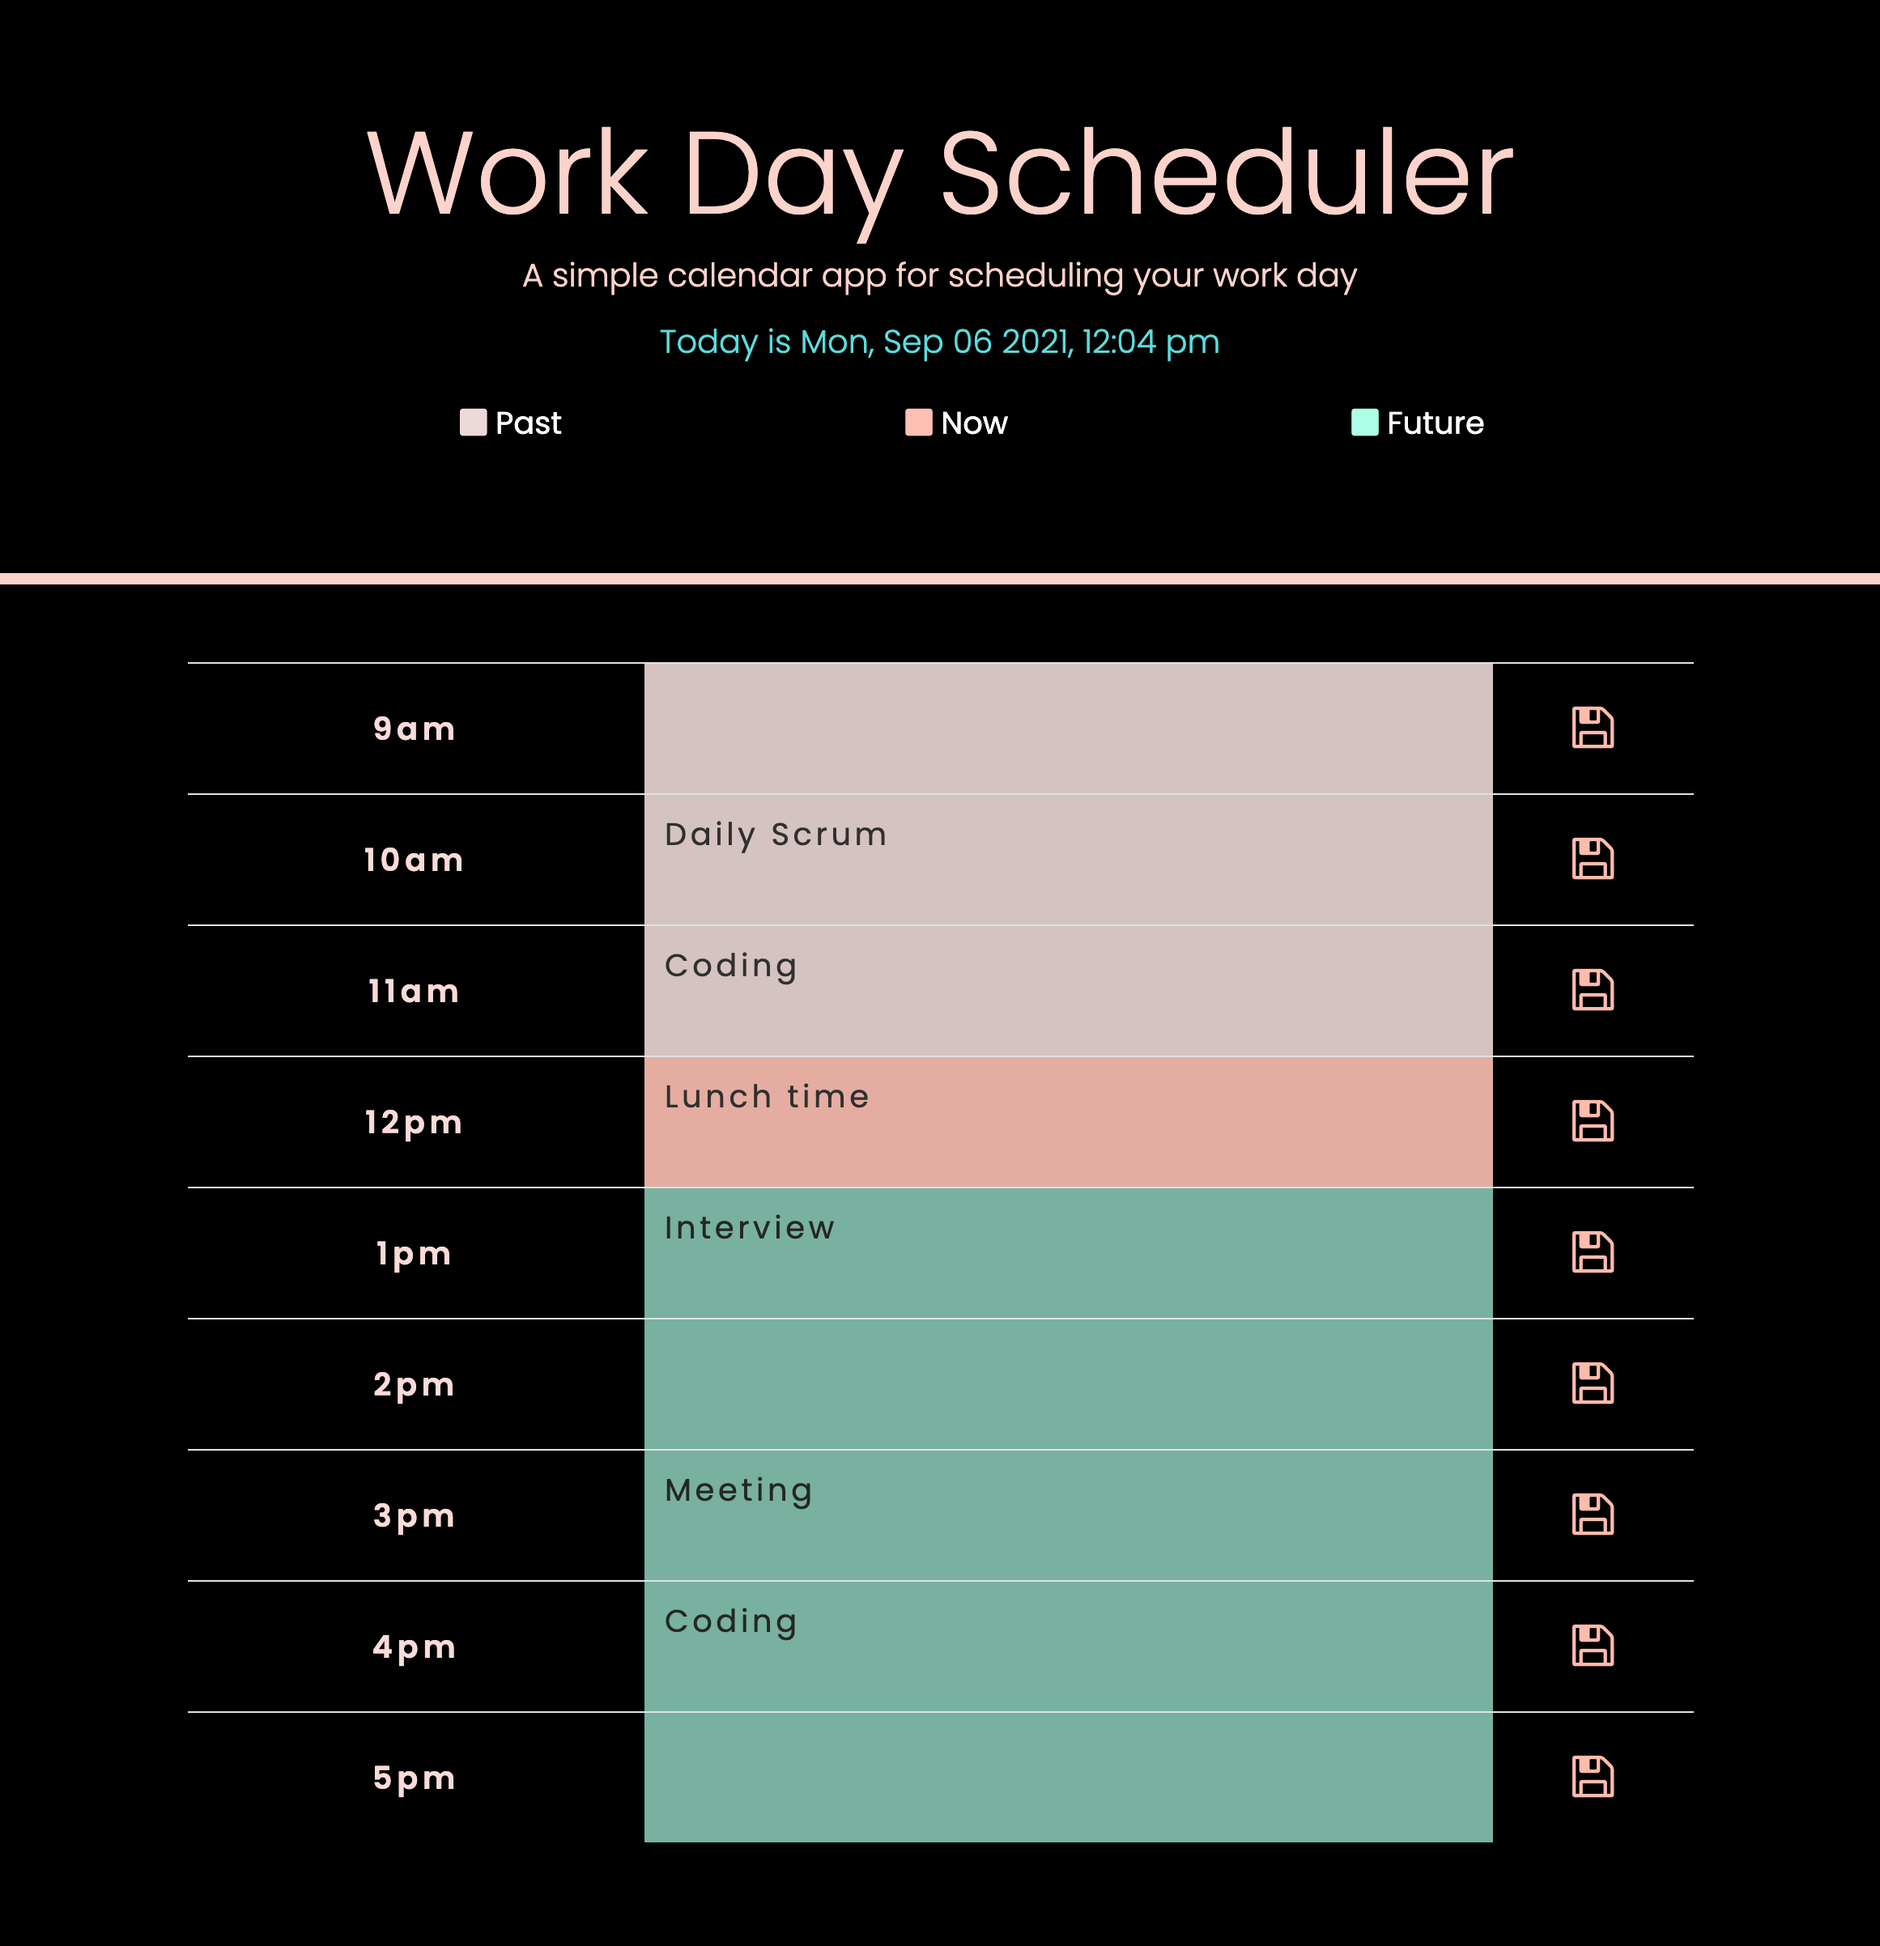
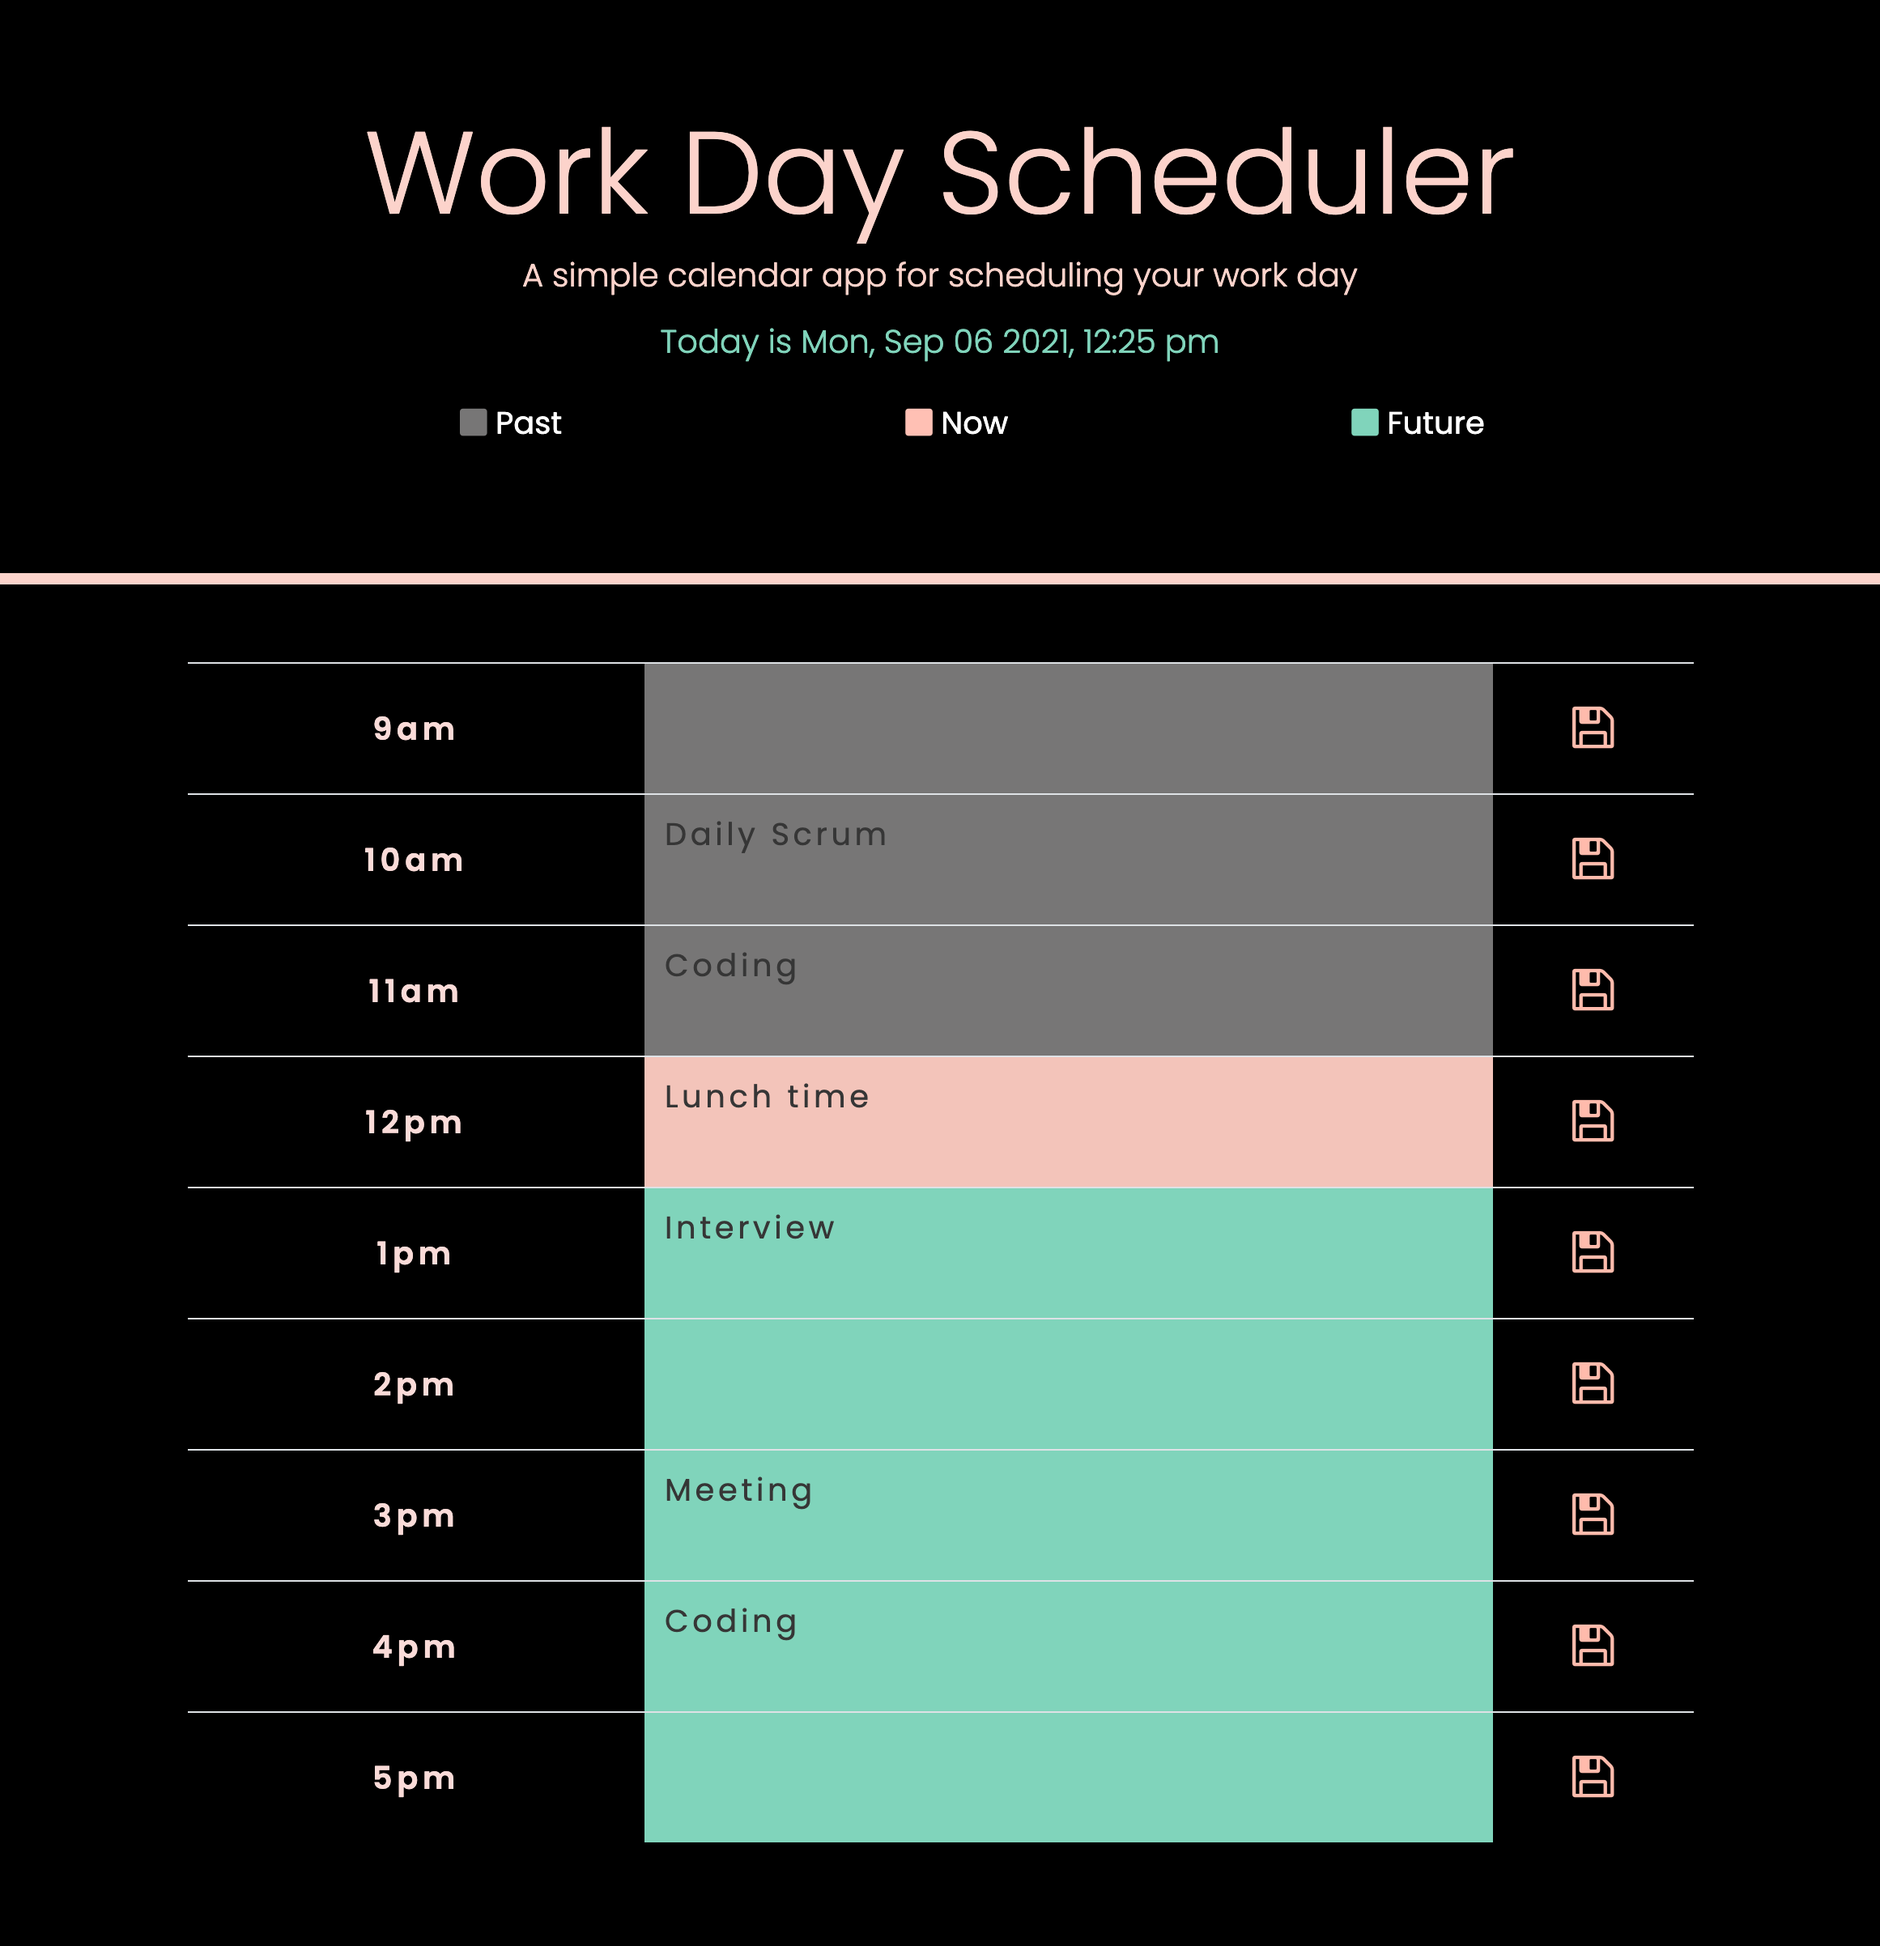
updated css and screenshot

Changed region(s): [[0.3411, 0.3432, 0.8062, 0.9671], [0.3721, 0.156, 0.6512, 0.1872], [0.7132, 0.1872, 0.7442, 0.2184]]

diff --git a/style.css b/style.css
@@ -29,7 +29,7 @@ p {
 }
 
 #currentDay {
-  color: #5bdbdd;
+  color: #80d4bb;
 }
 
 .square-row {
@@ -41,13 +41,13 @@ p {
   margin-top: 25px;
 }
 #past {
-  color: #eed9d7;
+  color: #777676;
 }
 #now {
   color: #ffc1b4;
 }
 #future {
-  color: #adfee6;
+  color: #80d4bb;
 }
 .description {
   white-space: pre-wrap;
@@ -84,20 +84,17 @@ th#time.hour {
 }
 
 .past {
-  background-color: #eed9d7;
-  opacity: 90%;
+  background-color: #777676;
   color: var(--dark);
 }
 
 .present {
-  background-color: #ffc1b4;
-  opacity: 90%;
+  background-color: #f3c4ba;
   color: var(--dark);
 }
 
 .future {
-  background-color: #adfee6;
-  opacity: 70%;
+  background-color: #80d4bb;
   color: var(--dark);
 }
 
@@ -107,7 +104,7 @@ th#time.hour {
 }
 
 .fa:hover {
-  color: #5bdbdd;
+  color: #ff896e;
   /* transition: all 0.3s ease-in-out; */
   transition: all 0.3s ease, background-position 1ms;
 }
